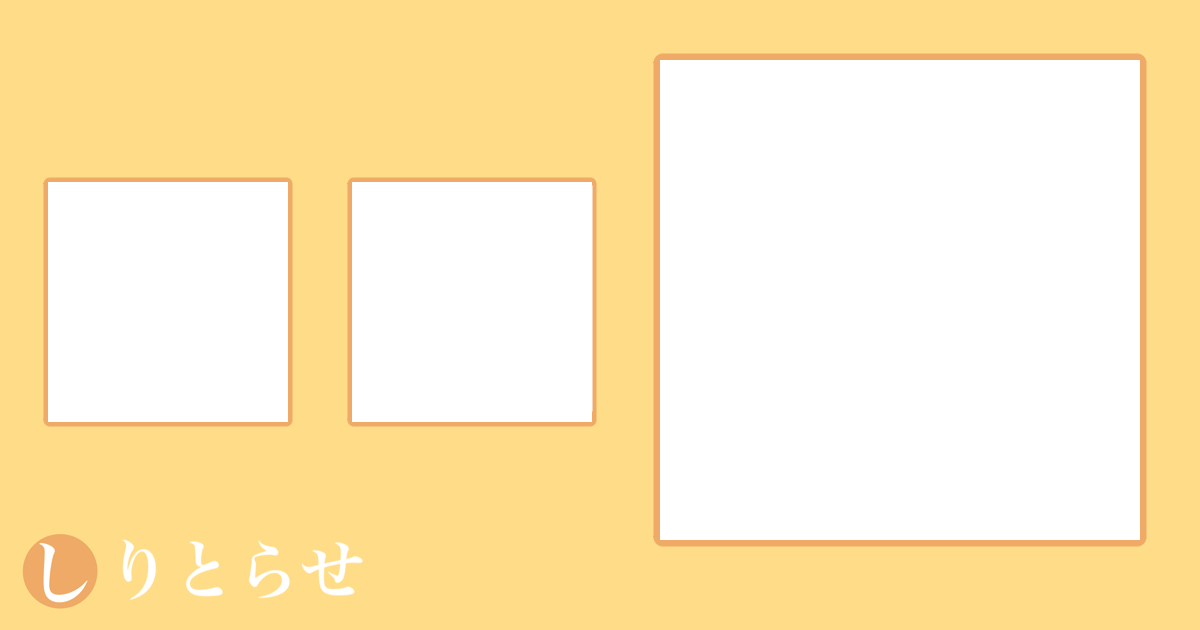
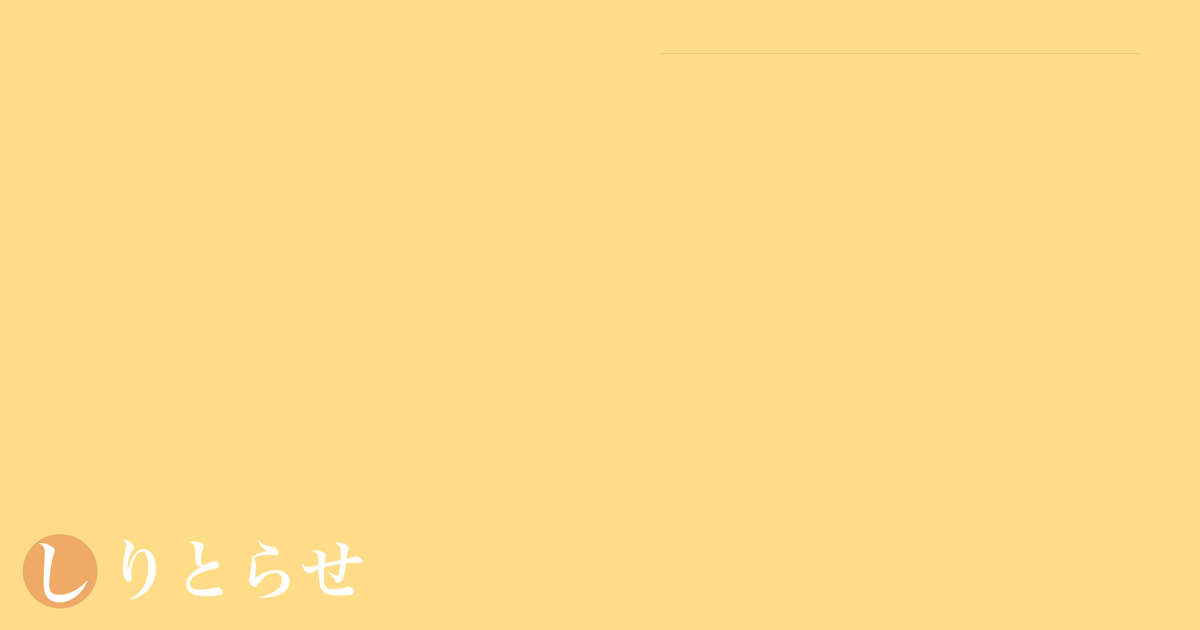
WIP: update OGP generation

diff --git a/features/Drawing/utils/OGP/index.ts b/features/Drawing/utils/OGP/index.ts
@@ -1,0 +1,74 @@
+import type { PictureType } from '../../types';
+import drawTriangle from './drawTriangle';
+import drawPictureWithCaption from './drawPictureWithCaption';
+
+export default async function generateOGP(
+  title: string,
+  latest: HTMLCanvasElement,
+  ancestors: PictureType[],
+  ancestorImages: HTMLImageElement[],
+): Promise<HTMLCanvasElement> {
+  const [ogp, ctx] = init(1200, 630);
+  const background = await fetchBitmap('/img/ogp_background.png');
+  ctx.drawImage(background, 0, 0);
+
+  drawPictureWithCaption(
+    ctx,
+    latest,
+    title,
+    480,
+    ctx.canvas.width / 2 + 60,
+    60,
+  );
+
+  const digestCount = 2;
+  const digestSize = 240;
+  const triangle = 32;
+  const digestsY = ctx.canvas.height / 2 - digestSize / 2;
+  const digestsMargin =
+    (ctx.canvas.width / 2 + 60 - digestSize * digestCount) / (digestCount + 1);
+  const triangleMargin = digestsMargin / 2 - triangle / 2;
+  ancestors.slice(-digestCount).forEach(({ title }, index) => {
+    const digestX = digestsMargin + (digestSize + digestsMargin) * index;
+    drawPictureWithCaption(
+      ctx,
+      ancestorImages.slice(-digestCount)[index],
+      title,
+      digestSize,
+      digestX,
+      digestsY,
+    );
+    drawTriangle(
+      ctx,
+      'left',
+      digestX + digestSize + triangleMargin,
+      ctx.canvas.height / 2 - triangle / 2,
+      triangle,
+      triangle,
+      '#f00',
+    );
+  });
+  return ogp;
+}
+
+function init(
+  width: number,
+  height: number,
+): [HTMLCanvasElement, CanvasRenderingContext2D] {
+  const canvas = document.createElement('canvas');
+  canvas.width = width;
+  canvas.height = height;
+
+  const context = canvas.getContext('2d');
+  if (context === null) {
+    throw new Error('canvas context is not available.');
+  }
+
+  return [canvas, context];
+}
+
+function fetchBitmap(path: string): Promise<ImageBitmap> {
+  return fetch(path)
+    .then((res) => res.blob())
+    .then((blob) => createImageBitmap(blob));
+}

diff --git a/features/Drawing/utils/post.ts b/features/Drawing/utils/post.ts
@@ -9,20 +9,22 @@ import {
 import { ref, uploadBytes } from '@firebase/storage';
 import { db, storage } from 'lib/browser/firebase';
 import type { PictureType } from '../types';
-import createOGP from './createOGP';
+import generateOGP from './OGP';
 
 export default async function post(
   title: string,
   ancestors: PictureType[],
   picture: HTMLCanvasElement,
-  parentImages: HTMLImageElement[],
+  ancestorImages: HTMLImageElement[],
 ): Promise<string> {
   const id = await register(title, ancestors);
   await Promise.all([
     upload(`picture/${id}.png`, await canvasToBlob(picture)),
     upload(
       `ogp/${id}.png`,
-      await canvasToBlob(createOGP(picture, parentImages)),
+      await canvasToBlob(
+        await generateOGP(title, picture, ancestors, ancestorImages),
+      ),
     ),
   ]);
 

diff --git a/features/Drawing/utils/OGP/drawPictureWithCaption.ts b/features/Drawing/utils/OGP/drawPictureWithCaption.ts
@@ -1,0 +1,26 @@
+import drawFramedBox from './drawFramedBox';
+
+export default function drawPictureWithCaption(
+  ctx: CanvasRenderingContext2D,
+  image: CanvasImageSource,
+  title: string,
+  size: number,
+  x: number,
+  y: number,
+) {
+  drawFramedBox(ctx, x, y, size, size, size / 80, '#ea6');
+  ctx.drawImage(image, x, y, size, size);
+  const captionWidth = size / 3;
+  const captionHeight = captionWidth / 4;
+  const captionX = x + size / 2 - captionWidth / 2;
+  const captionY = y + size + captionHeight / 2;
+
+  ctx.fillStyle = '#fff';
+  ctx.fillRect(captionX, captionY, captionWidth, captionHeight);
+
+  ctx.textAlign = 'left';
+  ctx.textBaseline = 'top';
+  ctx.fillStyle = '#222';
+  ctx.fillText(title, captionX, captionY, captionWidth);
+  console.log('font', ctx.font);
+}

diff --git a/features/Drawing/utils/OGP/drawRoundSquare.ts b/features/Drawing/utils/OGP/drawRoundSquare.ts
@@ -1,0 +1,22 @@
+export default function drawRoundSquare(
+  context: CanvasRenderingContext2D,
+  x: number,
+  y: number,
+  w: number,
+  h: number,
+  r: number,
+  color: string,
+) {
+  context.beginPath();
+  context.lineWidth = 1;
+  context.strokeStyle = color;
+  context.fillStyle = color;
+  context.moveTo(x, y + r);
+  context.arc(x + r, y + h - r, r, Math.PI, Math.PI * 0.5, true);
+  context.arc(x + w - r, y + h - r, r, Math.PI * 0.5, 0, true);
+  context.arc(x + w - r, y + r, r, 0, Math.PI * 1.5, true);
+  context.arc(x + r, y + r, r, Math.PI * 1.5, Math.PI, true);
+  context.closePath();
+  context.stroke();
+  context.fill();
+}

diff --git a/features/Drawing/utils/OGP/drawFramedBox.ts b/features/Drawing/utils/OGP/drawFramedBox.ts
@@ -1,0 +1,23 @@
+import drawRoundSquare from './drawRoundSquare';
+
+export default function drawFramedBox(
+  ctx: CanvasRenderingContext2D,
+  x: number,
+  y: number,
+  w: number,
+  h: number,
+  frameWidth: number,
+  frameColor: string,
+) {
+  drawRoundSquare(
+    ctx,
+    x - frameWidth,
+    y - frameWidth,
+    w + frameWidth * 2,
+    h + frameWidth * 2,
+    (frameWidth * 3) / 2,
+    frameColor,
+  );
+  ctx.fillStyle = '#fff';
+  ctx.fillRect(x, y, w, h);
+}

diff --git a/features/Drawing/utils/OGP/drawTriangle.ts b/features/Drawing/utils/OGP/drawTriangle.ts
@@ -1,0 +1,18 @@
+export default function drawTriangle(
+  ctx: CanvasRenderingContext2D,
+  direction: 'left' | 'right',
+  x: number,
+  y: number,
+  width: number,
+  height: number,
+  color: string,
+) {
+  ctx.beginPath();
+  ctx.fillStyle = color;
+  ctx.moveTo(x, y);
+  ctx.lineTo(x + height, y + width / 2);
+  ctx.lineTo(x, y + width);
+  ctx.lineTo(x, y);
+  ctx.closePath();
+  ctx.fill();
+}
